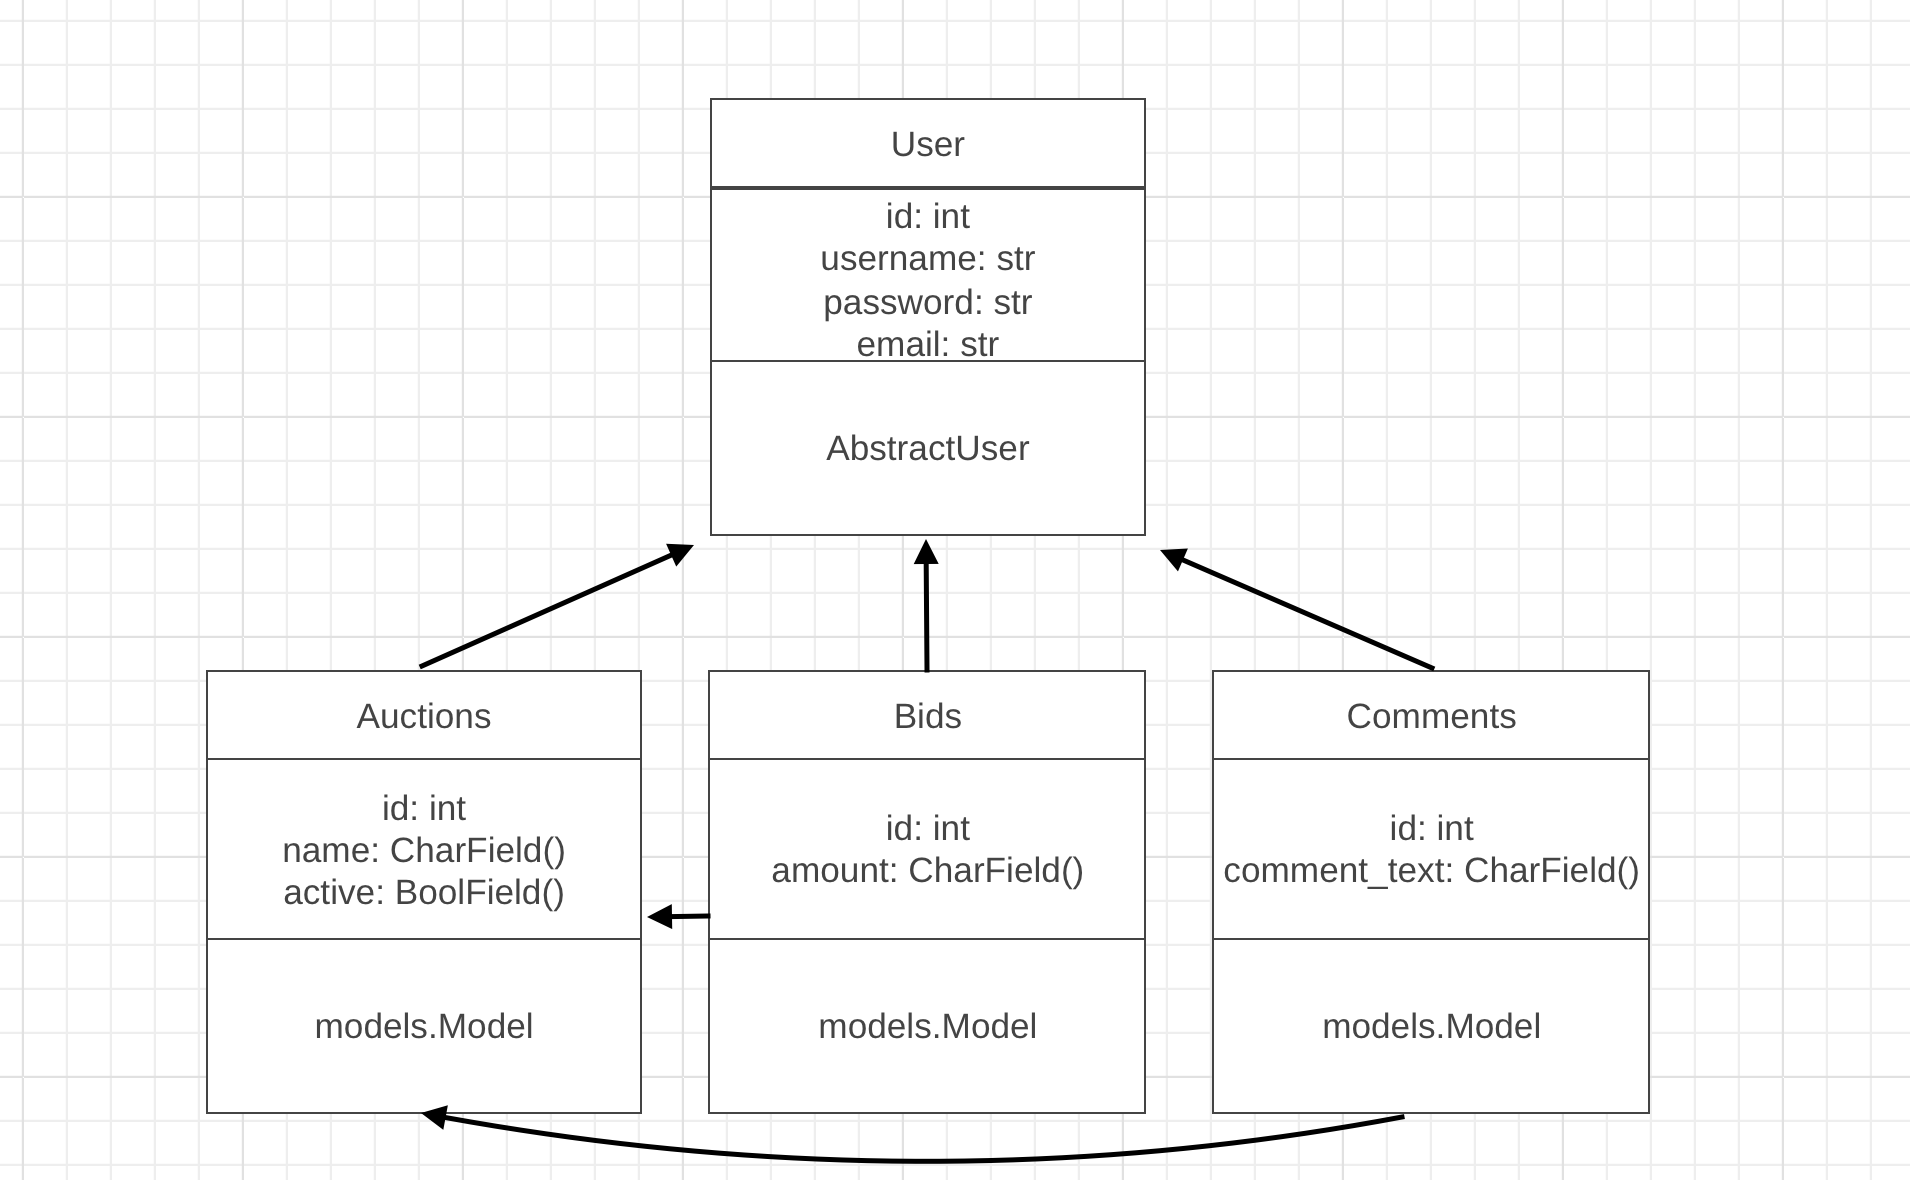
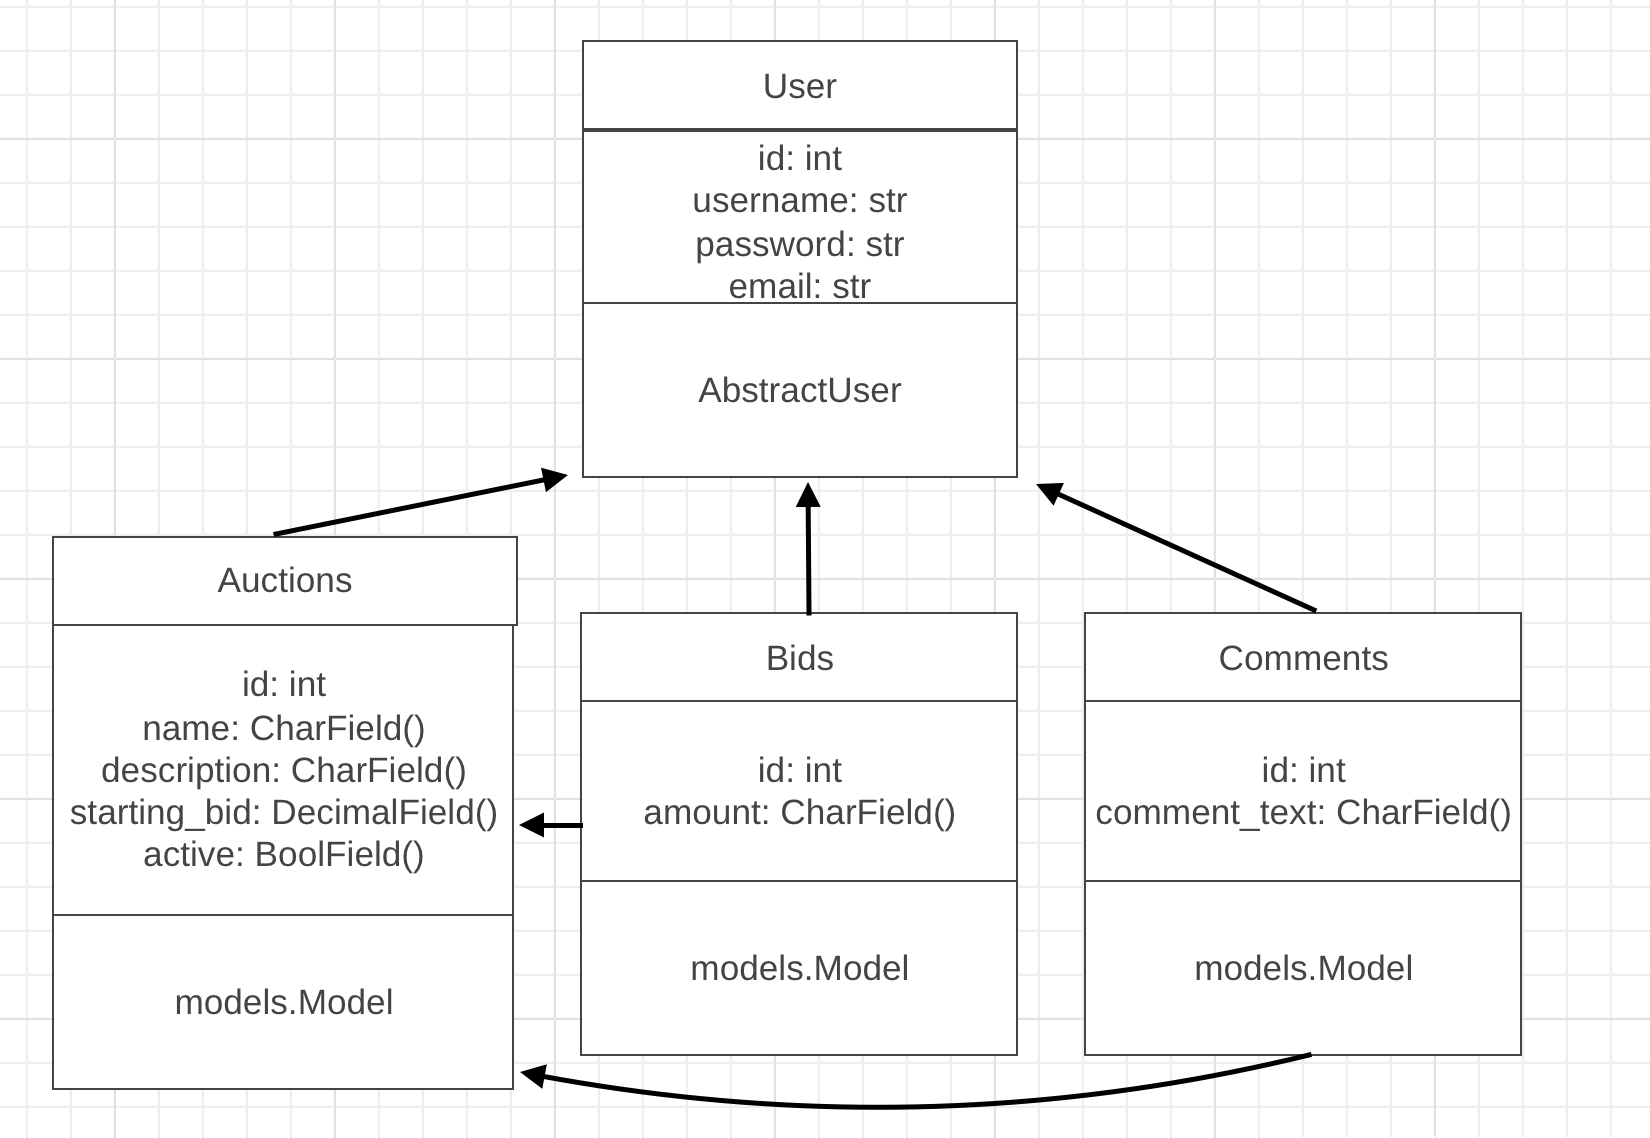
README update

diff --git a/README.md b/README.md
@@ -27,12 +27,15 @@ This program requires three extra models, in addition to the User model, in orde
 These models are:
 
 * Auction Listing
-Houses all the listings present, stored as a CharField, on the website and it needs to store if the listing is active or not with the use of a BooleanField. Which needs to have a many-to-many to the users model to determine, who has put the listing online.
+
+Houses all the names, descriptions and startingbids of the listings present, stored as CharFields and a DecimalField, on the website. It also needs to store if the listing is active or not with the use of a BooleanField. Which needs to have a many-to-many to the users model to determine, who has put the listing online.
 
 * Bid Listing
+
 Houses all the bids, stored as a DecimalField, per listing and who has been bid. This model will need two many-to-may links to the auction listing and the user list to link the bids to a certain auction and user.
 
 * Comment Listing
+
 Houses all the comments, stored as a CharFiels, per listing and user. This model will need two many-to-many links to the auction listing and the user list to link the comments to a certain auction and user.
 
 This is a graph of how the models will look like in the program.
